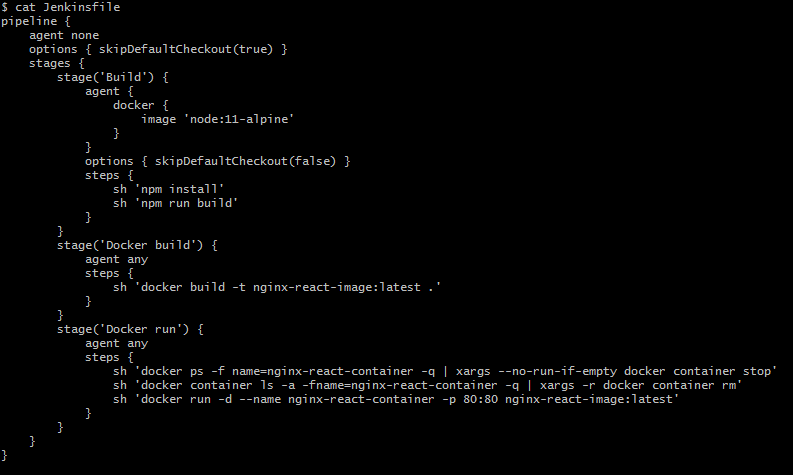
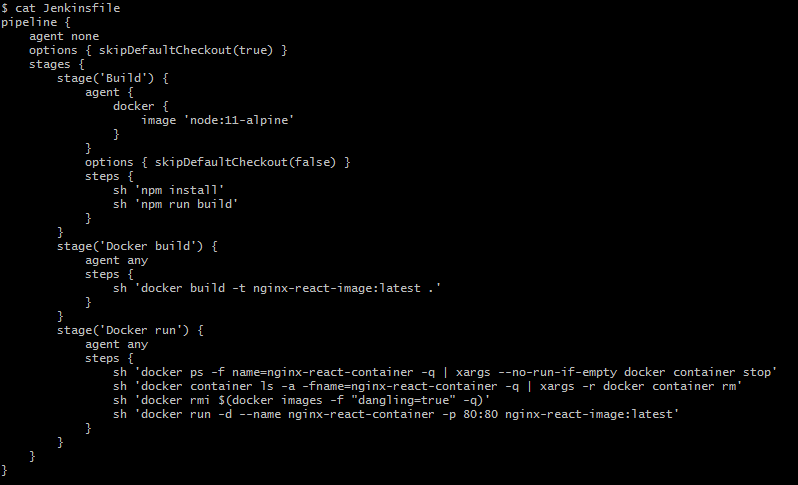
20190422_14

diff --git a/_posts/2019-04-12-[Docker]Docker컨테이너로 jenkins 실행 후 소스 push 시 자동 빌드배포하기(Springboot).md b/_posts/2019-04-12-[Docker]Docker컨테이너로 jenkins 실행 후 소스 push 시 자동 빌드배포하기(Springboot).md
@@ -54,7 +54,11 @@ _ _ _
 ### [3. Docker컨테이너에 Jenkins 설치 및 실행]
 
 1. 도커 컨테이너에 Jenkins 설치 후 구동 : 
- - `docker run -d -u root -p 8081:8080 --name=docker-jenkins -v jenkins-data:/var/jenkins_home -v /var/run/docker.sock:/var/run/docker.sock -v "$HOME":/home jenkinsci/blueocean`
+ - `docker run -d -u root -p 8081:8080 --name=docker-jenkins-container -v /home/admin/docker/jenkins-data:/var/jenkins_home -v /var/run/docker.sock:/var/run/docker.sock -v "$HOME":/home jenkinsci/blueocean`
+ - 또는 해당 명령어를 docker-compose.yml 파일로 작성 후 `docker-compose up -d --build` 명령어로 구동 가능하다
+ - docker-compose.yml
+![](../images/docker_jenkins_20190418_22.jpg)
+
 2. Jenkins 포트 방화벽 오픈 : 
  - `sudo iptables -I INPUT 1 -p tcp --dport 8081 -j ACCEPT `
  - `sudo iptables -I OUTPUT 1 -p tcp --dport 8081 -j ACCEPT `
@@ -135,15 +139,16 @@ pipeline {
         stage('Docker build') {
             agent any
             steps {
-                sh 'docker build -t docker-java-migrator:latest .'
+                sh 'docker build -t java-migrator-image:latest .'
             }
         }
         stage('Docker run') {
             agent any
             steps {
-                sh 'docker ps -f name=java-migrator -q | xargs --no-run-if-empty docker container stop'
-                sh 'docker container ls -a -fname=java-migrator -q | xargs -r docker container rm'
-                sh 'docker run -d --name java-migrator -p 8080:8080 docker-java-migrator:latest'
+                sh 'docker ps -f name=java-migrator-container -q | xargs --no-run-if-empty docker container stop'
+                sh 'docker container ls -a -fname=java-migrator-container -q | xargs -r docker container rm'
+                sh 'docker rmi $(docker images -f "dangling=true" -q)'
+                sh 'docker run -d --name java-migrator-container -p 8080:8080 java-migrator-image:latest'
             }
         }
     }
@@ -159,6 +164,9 @@ pipeline {
 	- steps : 실제 작업이 수행되는 블록
 	- skipDefaultCheckout(true) : agent가 none 이 아닌 경우 gitlab의 소스를 jenkins 디렉토리로 내려받게 되는데, skipDefaultCheckout이 true인 경우 내려받는 프로세스를 skip한다. false인 경우는 gitlab의 소스를 체크한 후 jenkins 디렉토리로 내려받게 된다.
 	- agent docker : docker image에 명시된 image를 활용하여 steps를 수행한다.
+	- sh 'docker ps -f name=java-migrator-container -q | xargs --no-run-if-empty docker container stop' : 현재 동작중인 컨테이너(java-migrator-container) stop 시킴
+	- sh 'docker container ls -a -fname=java-migrator-container -q | xargs -r docker container rm' : 현재 동작중인 컨테이너(java-migrator-container) 삭제
+	- sh 'docker rmi $(docker images -f "dangling=true" -q)' : docker image build 시 기존에 존재하던 이미지는 <none> 이미지가 되기 때문에 <none> 이미지를 일괄 삭제해줌
 	
 
 _ _ _

diff --git a/_posts/2019-04-22-[Docker]Docker컨테이너로 jenkins 실행 후 소스 push 시 자동 빌드배포하기(React).md b/_posts/2019-04-22-[Docker]Docker컨테이너로 jenkins 실행 후 소스 push 시 자동 빌드배포하기(React).md
@@ -70,6 +70,7 @@ pipeline {
             steps {
                 sh 'docker ps -f name=nginx-react-container -q | xargs --no-run-if-empty docker container stop'
                 sh 'docker container ls -a -fname=nginx-react-container -q | xargs -r docker container rm'
+                sh 'docker rmi $(docker images -f "dangling=true" -q)'
                 sh 'docker run -d --name nginx-react-container -p 80:80 nginx-react-image:latest'
             }
         }
